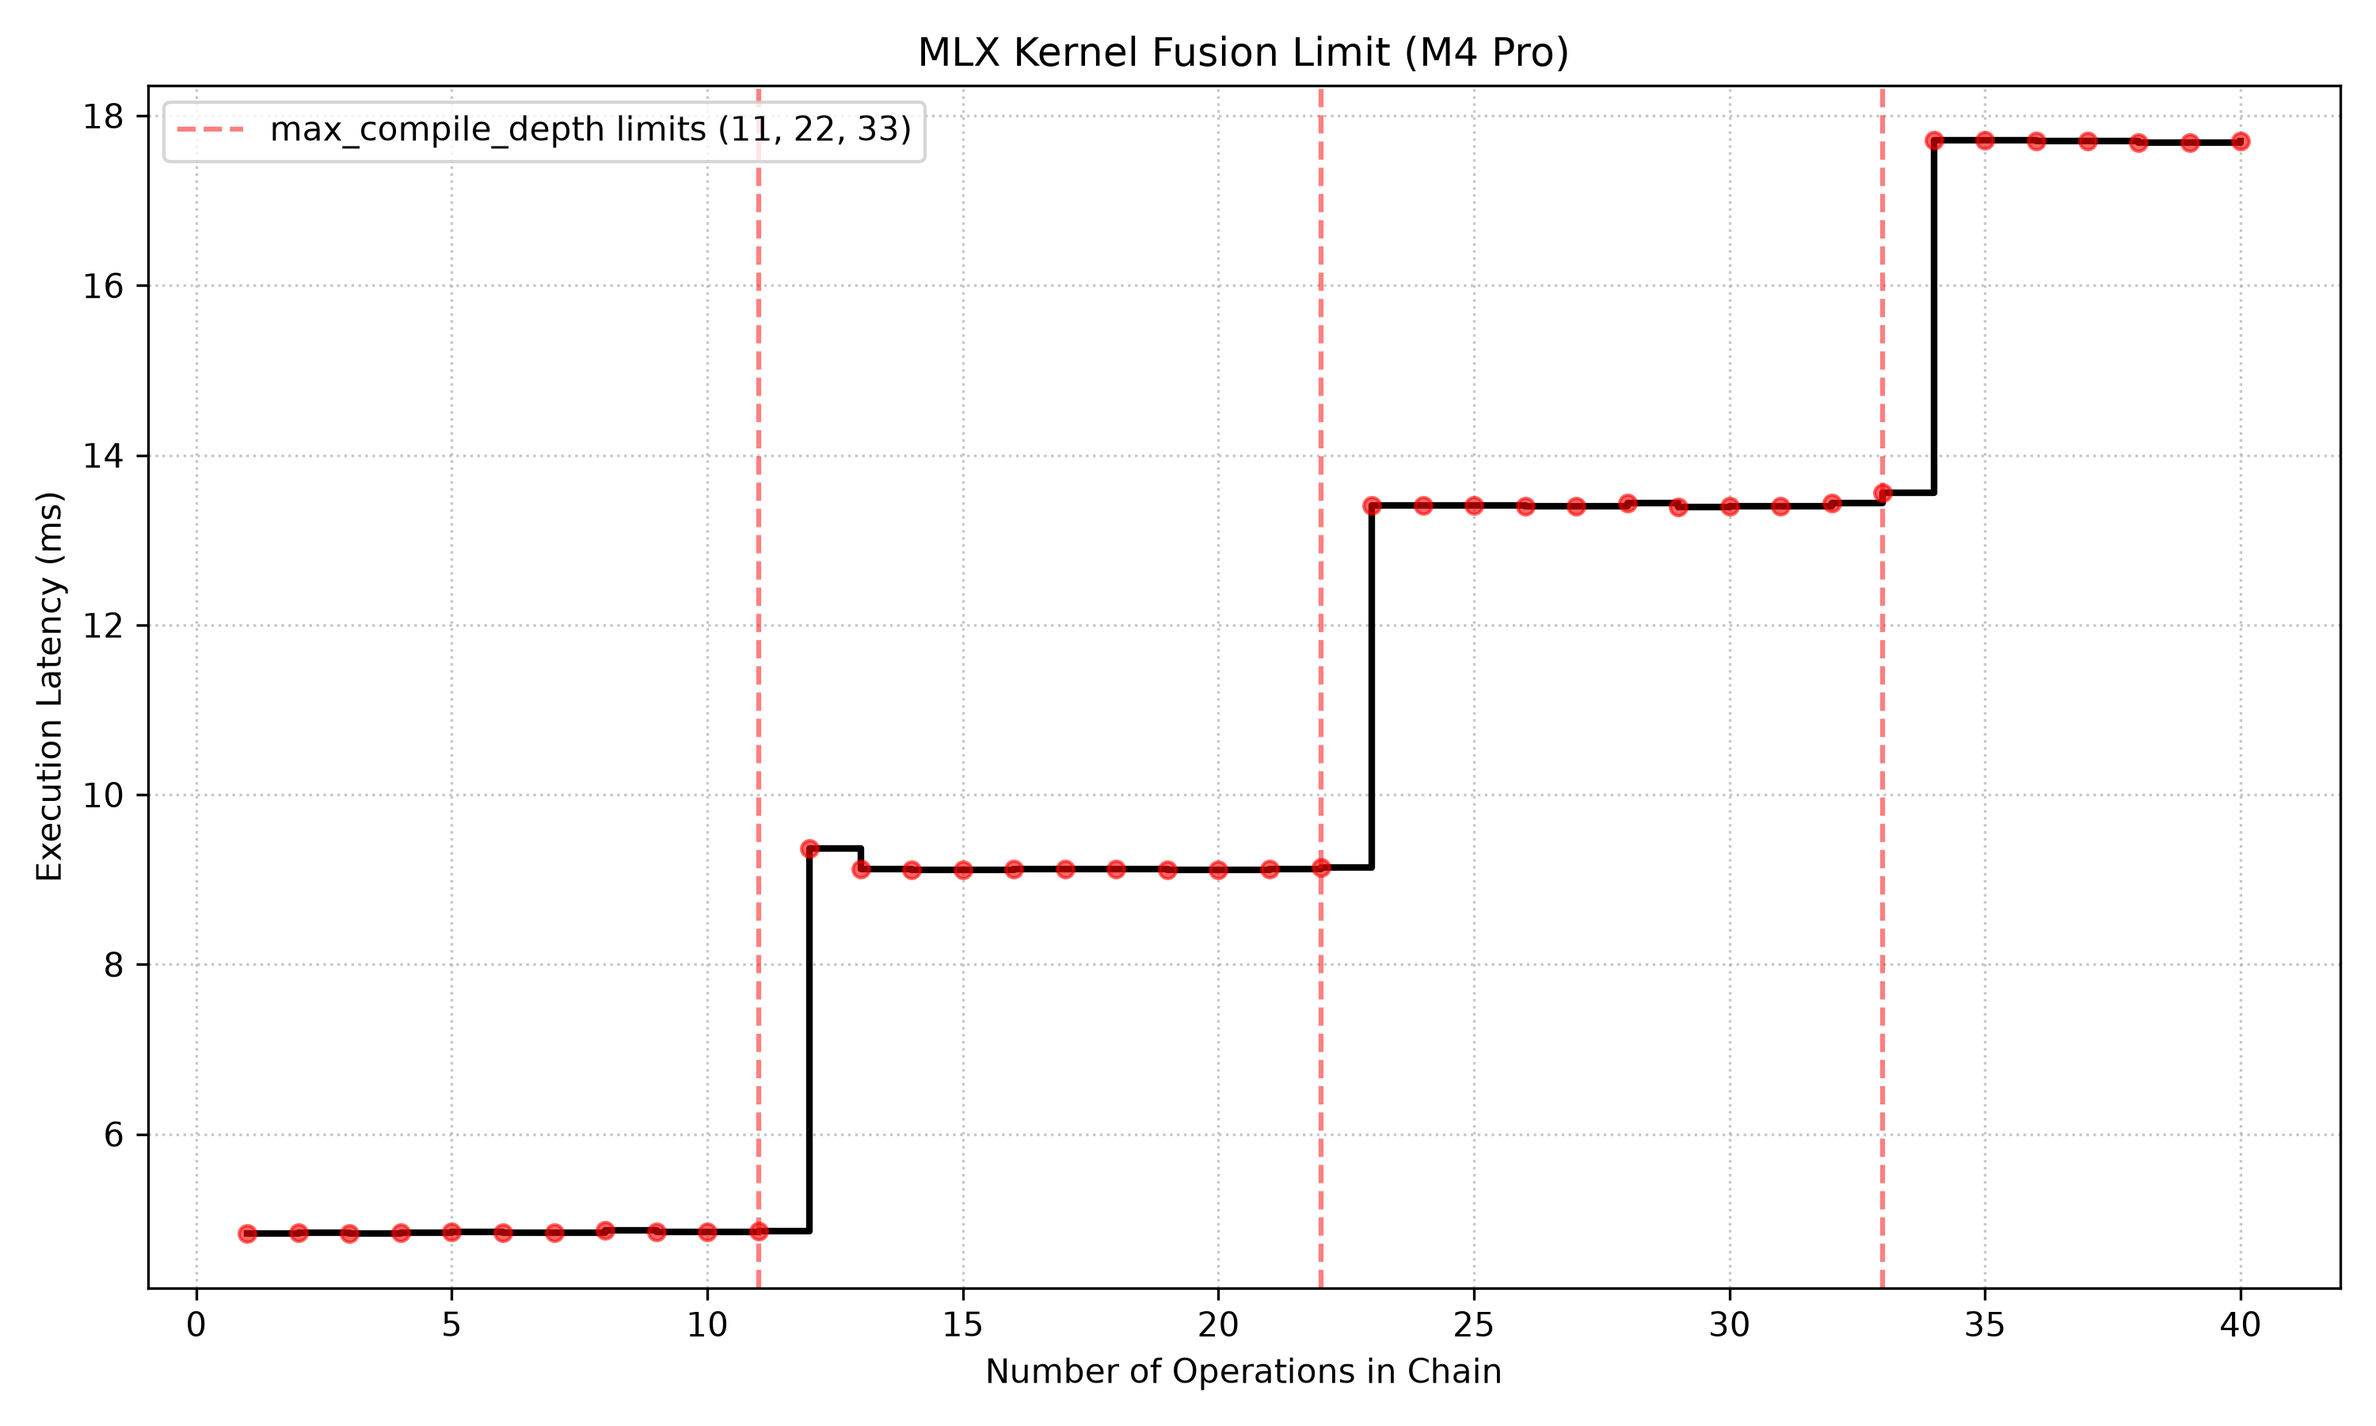
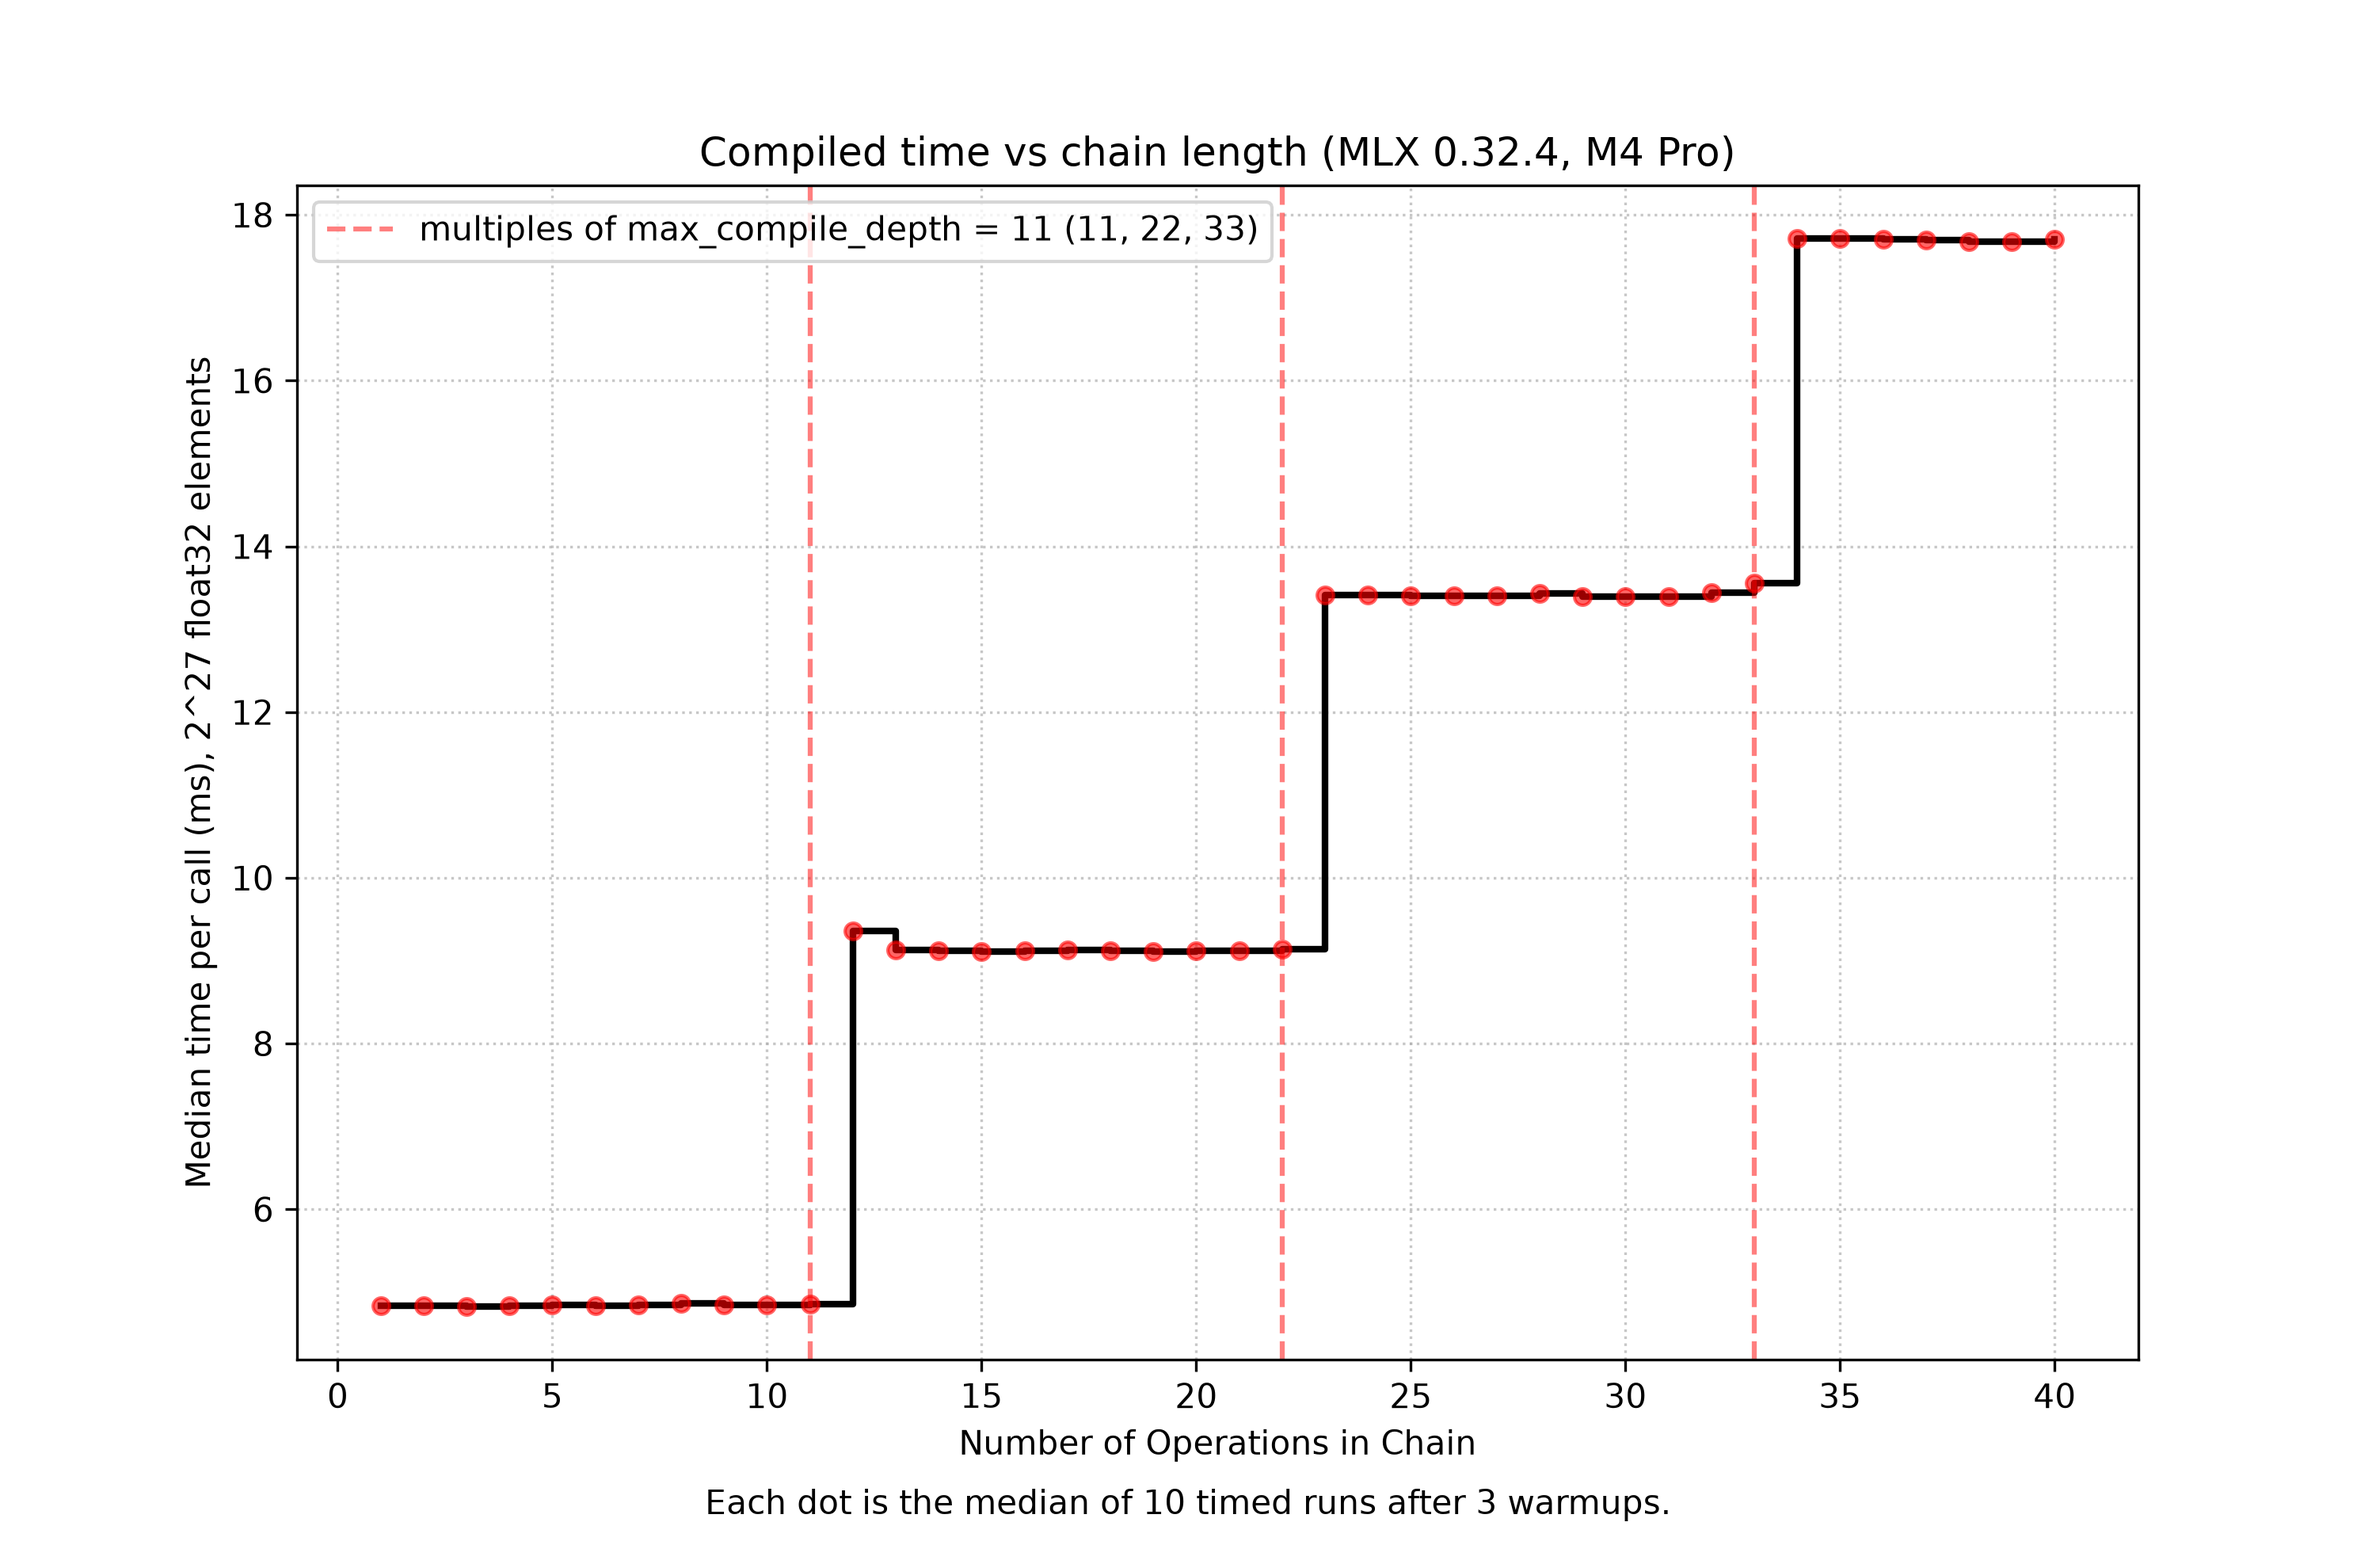
Update staircase plot labels and caption

diff --git a/plot_staircase.py b/plot_staircase.py
@@ -1,0 +1,32 @@
+import matplotlib.pyplot as plt
+import re
+
+ops = []
+times = []
+
+with open('run2/item5b.log', 'r') as f:
+    for line in f:
+        match = re.search(r'ops=\s*(\d+)\s*\|\s*median\s+([\d.]+)\s*ms', line)
+        if match:
+            ops.append(int(match.group(1)))
+            times.append(float(match.group(2)))
+
+plt.figure(figsize=(10, 6.5))
+plt.step(ops, times, where='post', color='black', linewidth=2)
+plt.plot(ops, times, 'ro', alpha=0.6, markersize=5)
+plt.axvline(x=11, color='red', linestyle='--', alpha=0.5, label='multiples of max_compile_depth = 11 (11, 22, 33)')
+plt.axvline(x=22, color='red', linestyle='--', alpha=0.5)
+plt.axvline(x=33, color='red', linestyle='--', alpha=0.5)
+
+plt.title('Compiled time vs chain length (MLX 0.32.4, M4 Pro)')
+plt.xlabel('Number of Operations in Chain')
+plt.ylabel('Median time per call (ms), 2^27 float32 elements')
+plt.grid(True, linestyle=':', alpha=0.7)
+plt.legend()
+
+# Adding the caption at the bottom
+plt.figtext(0.5, 0.02, "Each dot is the median of 10 timed runs after 3 warmups.", ha="center", fontsize=10)
+plt.subplots_adjust(bottom=0.12)
+
+plt.savefig('staircase_plot.png', dpi=300)
+print("Saved staircase_plot.png successfully.")
